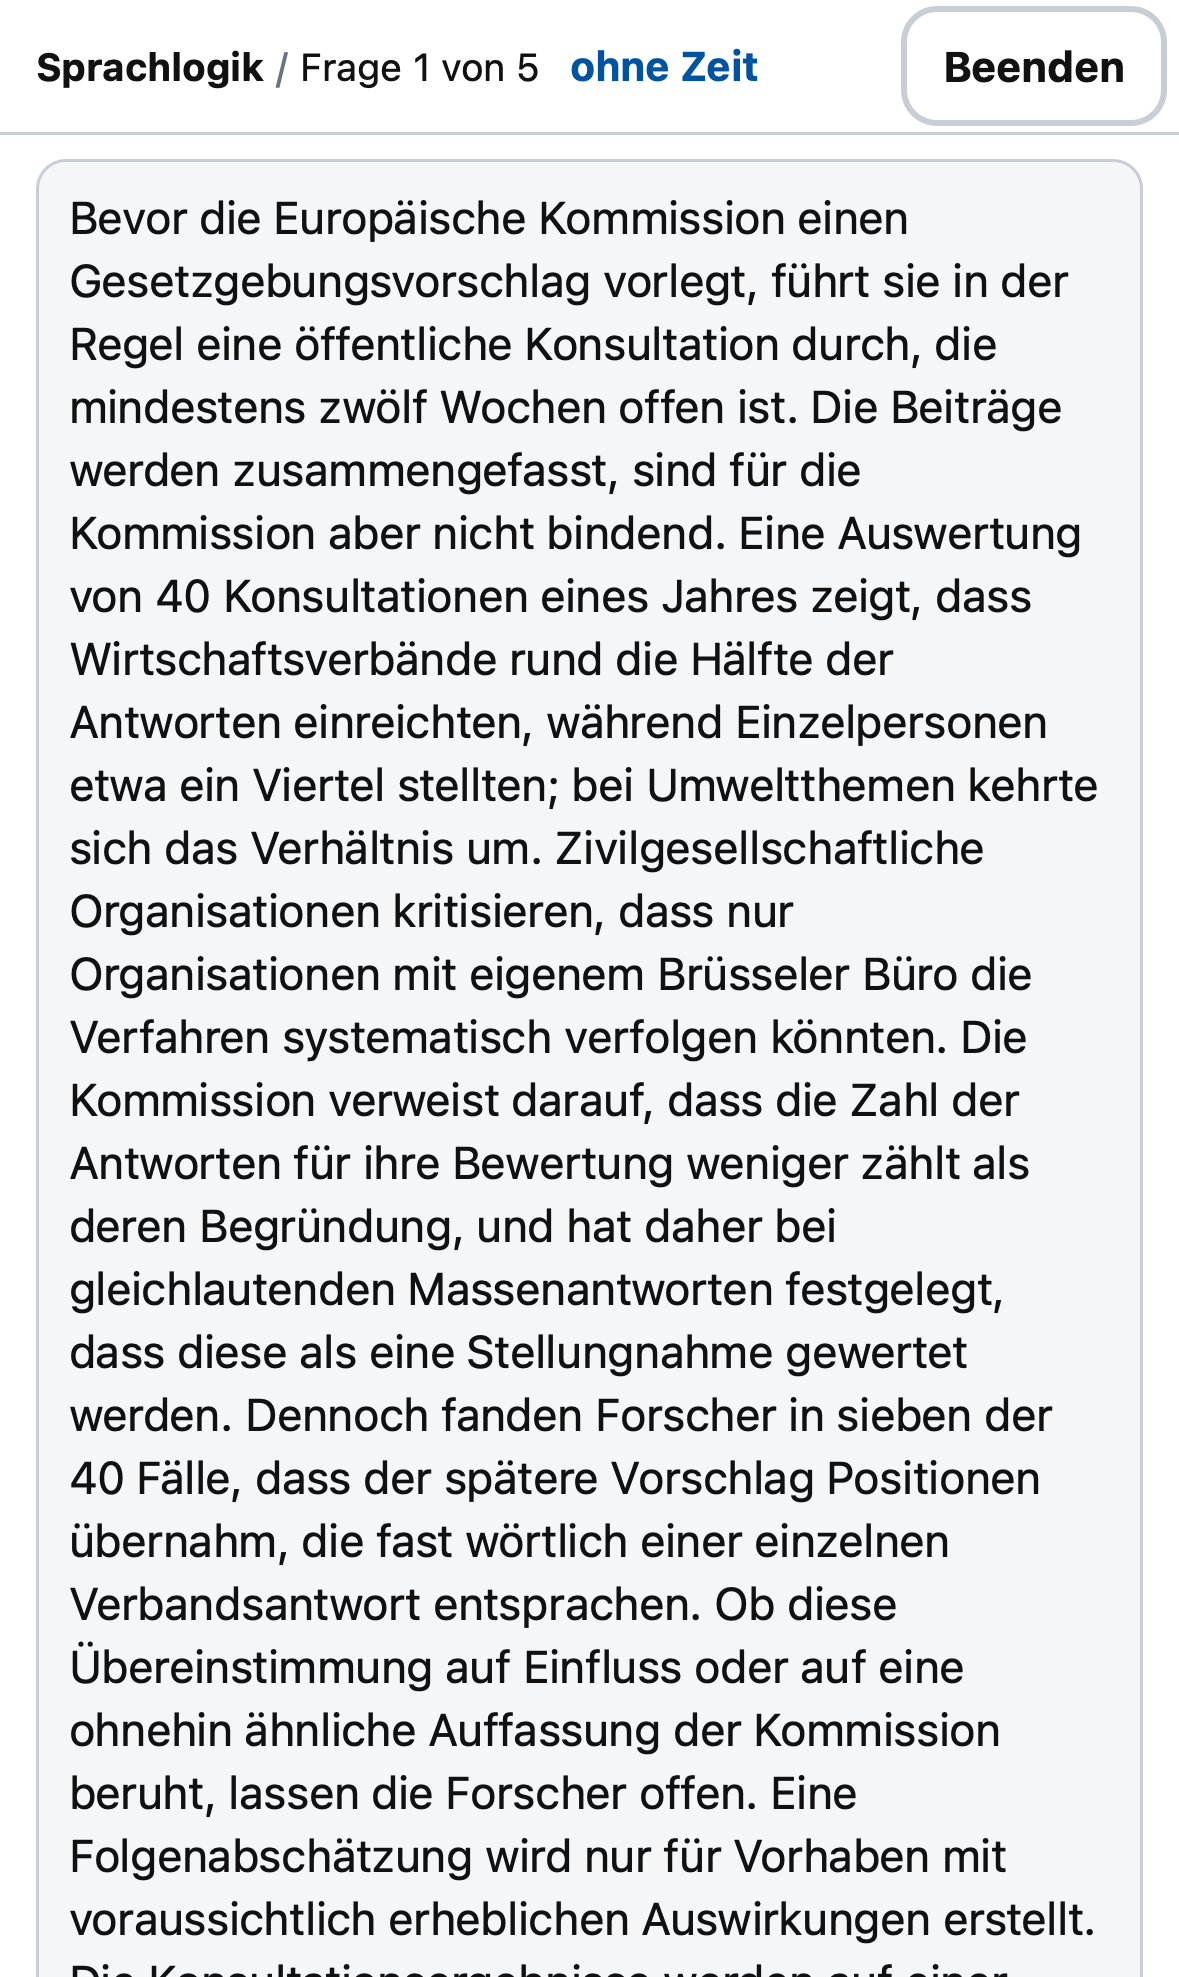
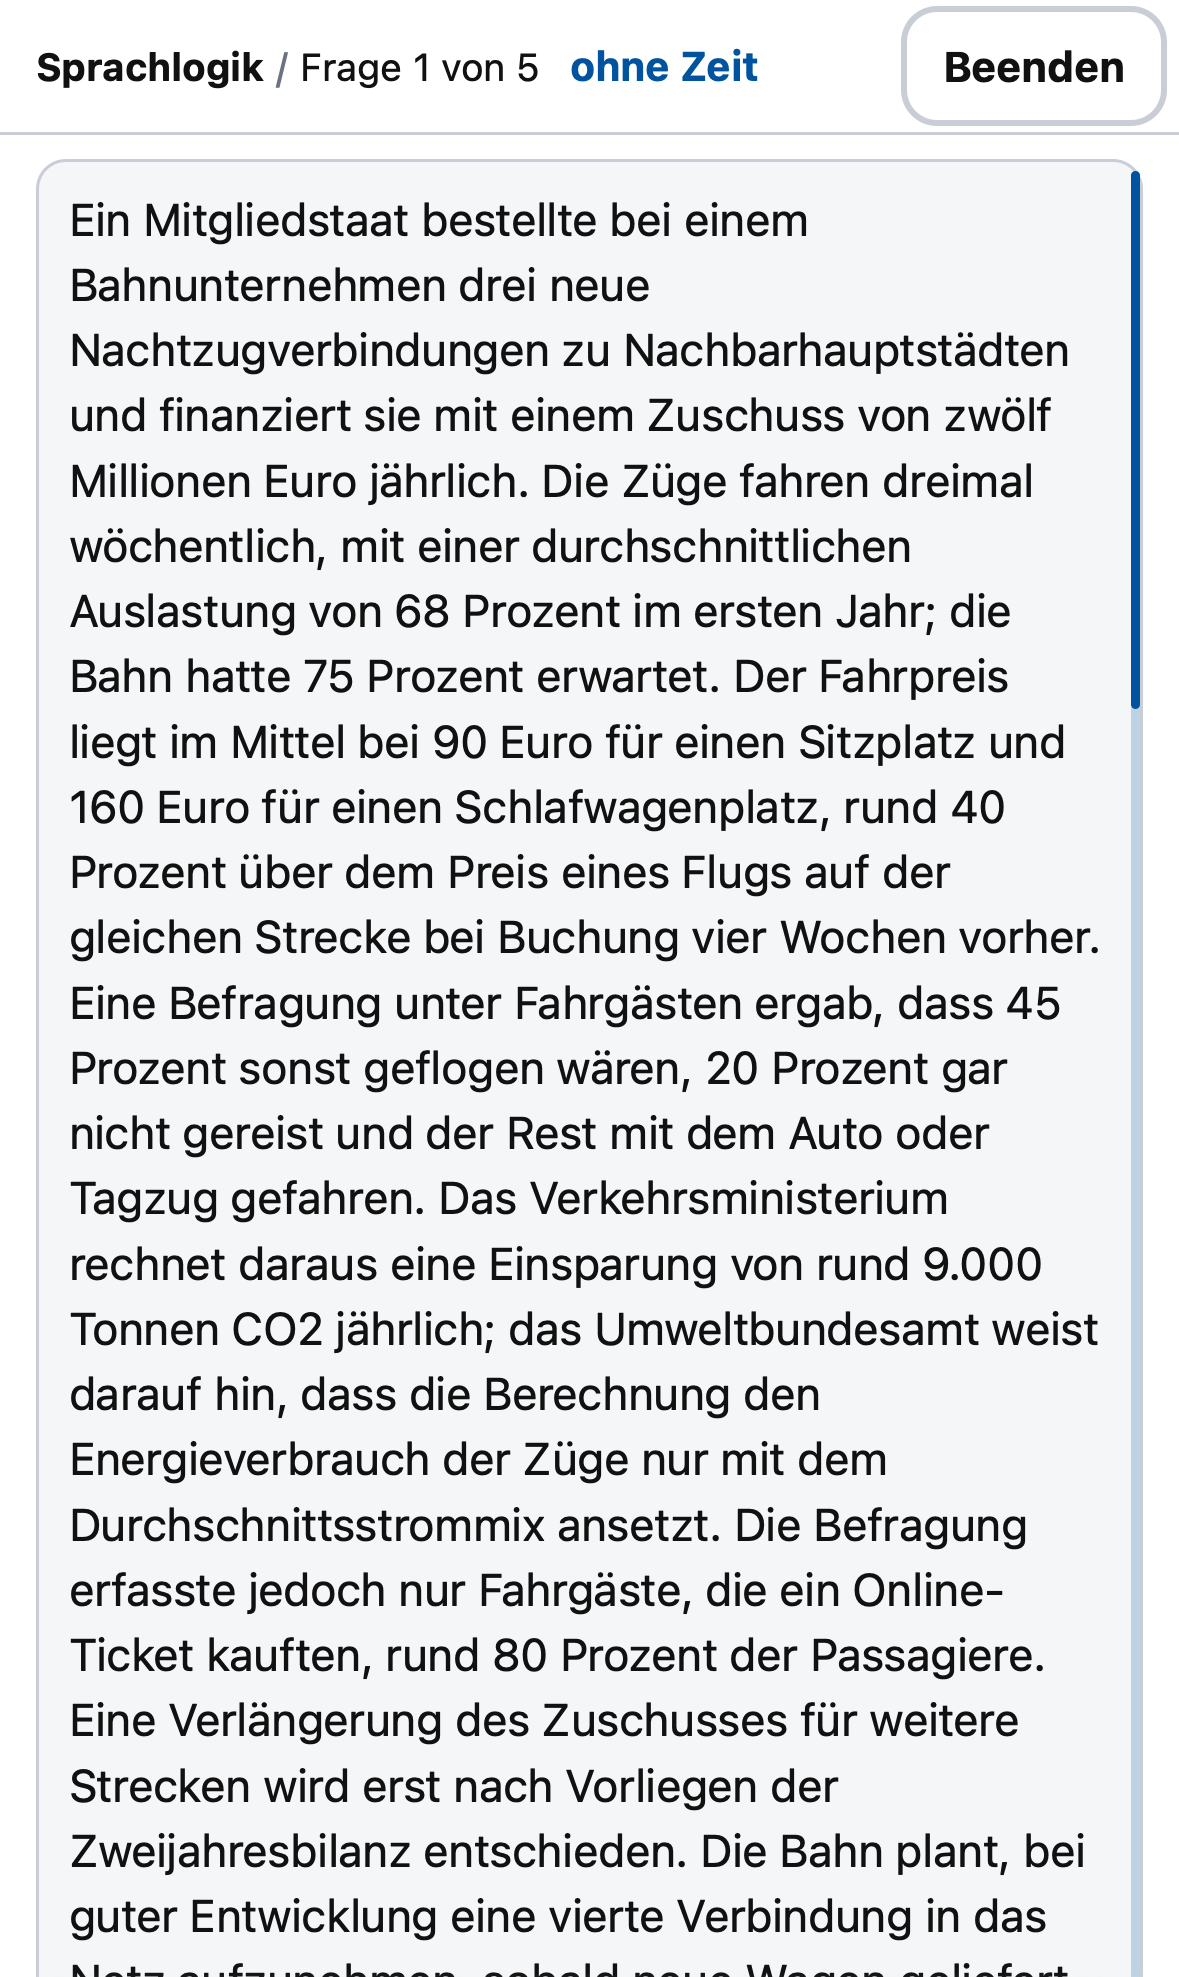
Frage-Layout kompakter, Umschalter Text/Antworten, Weiterlesen-Hinweis

Changed region(s): [[0.0611, 0.0926, 0.9771, 1.0]]

diff --git a/src/styles.css b/src/styles.css
@@ -85,26 +85,39 @@ select { display: block; width: 100%; min-height: 48px; font-size: 16px; margin-
 .rmain { flex: 1; min-height: 0; overflow: hidden; padding: 8px 12px 6px; }
 .rmain.scroll { overflow-y: auto; }
 .qlayout { max-width: 760px; margin: 0 auto; height: 100%; display: flex; flex-direction: column; gap: 6px; }
-.qleft { flex: 0 1 auto; min-height: 0; overflow-y: auto; }
-.qleft.fade { -webkit-mask-image: linear-gradient(to bottom, #000 calc(100% - 28px), transparent); mask-image: linear-gradient(to bottom, #000 calc(100% - 28px), transparent); }
+.qtext { position: relative; flex: 0 1 auto; min-height: 0; display: flex; flex-direction: column; }
+.qleft { flex: 1 1 auto; min-height: 0; overflow-y: auto; overscroll-behavior: contain; }
+.qtext .sprog { display: none; position: absolute; top: 4px; bottom: 4px; right: 1px; width: 3px; border-radius: 2px; background: color-mix(in srgb, var(--accent) 22%, transparent); pointer-events: none; }
+.qtext .sprog::after { content: ''; position: absolute; left: 0; right: 0; top: 0; height: 28%; border-radius: 2px; background: var(--accent); transform: translateY(calc(var(--sp, 0) * 257%)); }
+.qtext.scrolls .sprog { display: block; }
+.qtext .shint { display: none; position: absolute; left: 0; right: 0; bottom: 0; height: 44px; align-items: flex-end; justify-content: center; padding-bottom: 6px; pointer-events: none; border-radius: 0 0 10px 10px; background: linear-gradient(to bottom, transparent, var(--card) 70%); }
+.qtext .shint span { background: var(--bg); color: var(--accent); border: 1px solid var(--accent); border-radius: 12px; padding: 1px 10px; font-size: .75rem; font-weight: 700; }
+.qtext.fade .shint { display: flex; }
+.qtoggle { flex: none; min-height: 40px; display: flex; align-items: center; justify-content: center; gap: 8px; padding: 0 12px; border-radius: 10px; border: 1.5px solid var(--accent); background: var(--accent-soft); color: var(--accent); font-weight: 700; font-size: .8125rem; }
+.qtoggle small { font-weight: 600; color: var(--fg); font-size: .75rem; }
+.qtoggle b { font-size: .7rem; }
+.textfull .qtext { flex: 1 1 auto; }
 .qright { flex: none; margin-top: auto; }
+.qright[hidden] { display: none; }
 .qreveal { height: auto; display: block; }
 .qreveal .qleft { overflow: visible; }
-.passage { background: var(--card); border: 1px solid var(--border); border-radius: 10px; padding: 8px 10px; font-size: 15px; line-height: 1.4; white-space: pre-line; }
-.prompt { font-weight: 600; font-size: 15px; line-height: 1.3; margin: 0 0 6px; text-align: center; }
+.qreveal .qtext { display: block; }
+.passage { background: var(--card); border: 1px solid var(--border); border-radius: 10px; padding: 8px 12px 8px 10px; font-size: .9375rem; line-height: 1.45; white-space: pre-line; }
+.prompt { font-weight: 600; font-size: .8125rem; line-height: 1.25; margin: 0 0 4px; text-align: center; color: var(--muted); }
 .stim { max-width: 100%; overflow-x: auto; margin: 2px auto; text-align: center; color: var(--fg); }
 .stim svg { width: 100%; height: auto; max-height: 32vh; display: block; margin: 0 auto; }
 .t-abstract .stim svg { max-height: 17vh; }
 .stim table { margin: 0 auto; border-collapse: collapse; font-size: clamp(10px, 2.9vw, 14px); max-width: 100%; }
 .stim th, .stim td { border: 1px solid var(--border); padding: 1px 4px; }
-.opts { display: flex; flex-direction: column; gap: 8px; }
-.opt { display: flex; align-items: center; gap: 10px; width: 100%; min-height: 48px; padding: 8px 12px; text-align: left; font-size: 15px; line-height: 1.3; border: 2px solid var(--fg); border-radius: 10px; background: var(--bg); }
+.opts { display: flex; flex-direction: column; gap: 6px; }
+.opt { display: flex; align-items: center; gap: 8px; width: 100%; min-height: 40px; padding: 6px 10px; text-align: left; font-size: .9375rem; line-height: 1.35; border: 2px solid var(--fg); border-radius: 10px; background: var(--bg); }
+.opt b { flex: none; }
 .t-numerical .opts { gap: 6px; }
-.t-numerical .opt { min-height: 44px; padding: 4px 12px; }
-.opt .radio { flex: none; width: 18px; height: 18px; border-radius: 50%; border: 2px solid currentColor; }
+.t-numerical .opt { min-height: 40px; padding: 4px 10px; }
+.opt .radio { flex: none; width: 14px; height: 14px; border-radius: 50%; border: 2px solid currentColor; }
 .opt .otext { flex: 1; min-width: 0; overflow-wrap: anywhere; }
 .opt.sel { background: var(--accent); border-color: var(--accent); color: #fff; }
-.opt.sel .radio { background: #fff; box-shadow: inset 0 0 0 3px var(--accent); }
+.opt.sel .radio { background: #fff; box-shadow: inset 0 0 0 2px var(--accent); }
 .opt.right { border-color: var(--ok); background: color-mix(in srgb, var(--ok) 18%, var(--bg)); }
 .opt.wrong { border-color: var(--bad); background: color-mix(in srgb, var(--bad) 18%, var(--bg)); }
 .opt:disabled { color: var(--fg); opacity: 1; }
@@ -113,8 +126,12 @@ select { display: block; width: 100%; min-height: 48px; font-size: 16px; margin-
 @media (min-width: 700px) and (orientation: landscape) {
   .rmain { padding-bottom: 6px; }
   .qlayout, .qreveal { max-width: none; display: grid; grid-template-columns: 1fr 1fr; gap: 16px; height: 100%; }
-  .qleft, .qright { overflow-y: auto; min-height: 0; margin-top: 0; }
+  .qtext { min-height: 0; }
+  .qright { overflow-y: auto; min-height: 0; margin-top: 0; }
   .qreveal .qleft { overflow-y: auto; }
+  .qreveal .qtext { display: flex; }
+  .qtoggle { display: none; }
+  .qright[hidden] { display: block; }
   .stim svg { max-height: 60vh; } .t-abstract .stim svg { max-height: 30vh; }
 }
 /* Fußleiste */

diff --git a/e2e/qtoggle.spec.ts b/e2e/qtoggle.spec.ts
@@ -1,0 +1,78 @@
+import { expect, test, type Page } from '@playwright/test';
+import fs from 'node:fs';
+import path from 'node:path';
+
+const SHOTS = 'docs/screenshots/';
+const dir = 'data/verbal';
+const longest = fs.readdirSync(dir).filter((f) => f.endsWith('.json') && !f.startsWith('_'))
+  .flatMap((f) => JSON.parse(fs.readFileSync(path.join(dir, f), 'utf8')))
+  .sort((a: any, b: any) => b.text.length - a.text.length)[0];
+
+async function metrics(page: Page) {
+  return page.evaluate(() => {
+    const se = document.scrollingElement!;
+    const r = (s: string) => document.querySelector(s)?.getBoundingClientRect();
+    const opts = [...document.querySelectorAll('.opt')].map((e) => e.getBoundingClientRect());
+    const left = document.querySelector('.qleft') as HTMLElement;
+    const lh = parseFloat(getComputedStyle(document.querySelector('.passage')!).lineHeight);
+    return { sh: se.scrollHeight, ih: window.innerHeight, left: left.clientHeight, lines: left.clientHeight / lh,
+      maxBottom: opts.length ? Math.max(...opts.map((o) => o.bottom)) : 0, bar: r('.rbar')!.top,
+      toggleH: r('.qtoggle')?.height ?? 0, toggleBottom: r('.qtoggle')?.bottom ?? 0, tToggleTop: r('.qtoggle')?.top ?? 0,
+      visibleOpts: opts.filter((o) => o.width > 0).length };
+  });
+}
+
+const sizes = [
+  { n: '360x780', w: 360, h: 780, dpr: 3, dark: false },
+  { n: '412x915', w: 412, h: 915, dpr: 2.625, dark: true },
+  { n: '393x852', w: 393, h: 852, dpr: 3, dark: false },
+  { n: '915x412', w: 915, h: 412, dpr: 2.625, dark: true },
+];
+
+for (const s of sizes) {
+  test(`Sprachlogik kompakt + Umschalter ${s.n}`, async ({ browser }) => {
+    const ctx = await browser.newContext({ viewport: { width: s.w, height: s.h }, deviceScaleFactor: s.dpr, isMobile: true, hasTouch: true, colorScheme: s.dark ? 'dark' : 'light' });
+    const page = await ctx.newPage();
+    await page.goto(`./#/preview/${longest.id}`);
+    await page.locator('.opt').first().waitFor();
+    const landscape = s.w >= 700;
+    const a = await metrics(page);
+    expect(a.sh, 'Seite scrollt nicht').toBeLessThanOrEqual(a.ih + 1);
+    if (!landscape) {
+      expect(a.maxBottom, 'Antworten über der Leiste').toBeLessThanOrEqual(a.bar + 1);
+      expect(a.toggleH).toBeGreaterThanOrEqual(40);
+      if (s.w === 412) expect(a.lines, 'mind. 10 Textzeilen sichtbar').toBeGreaterThanOrEqual(10);
+    }
+    await page.screenshot({ path: `${SHOTS}40-${s.n}-antworten.png` });
+    if (!landscape) {
+      await page.getByTestId('opt-B').click();
+      await page.getByTestId('qtoggle').click();
+      await expect(page.getByTestId('opt-B')).toBeHidden();
+      const b = await metrics(page);
+      expect(b.left).toBeGreaterThan(a.left);
+      expect(b.sh).toBeLessThanOrEqual(b.ih + 1);
+      await expect(page.getByTestId('qtoggle')).toContainText('Gewählt: B');
+      await page.screenshot({ path: `${SHOTS}40-${s.n}-text.png` });
+      await page.getByTestId('qtoggle').click();
+      await expect(page.getByTestId('opt-D')).toBeVisible();
+    } else {
+      await page.screenshot({ path: `${SHOTS}40-${s.n}-text.png` });
+    }
+    await ctx.close();
+  });
+}
+
+test('Umschalter gilt nur für die aktuelle Frage', async ({ page }) => {
+  await page.goto('./');
+  await page.getByTestId('tile-practice').click();
+  await page.getByTestId('type-verbal').click();
+  await page.getByTestId('count-5').click();
+  await page.getByTestId('start-practice').click();
+  await page.getByTestId('qtoggle').click();
+  await expect(page.getByTestId('opt-A')).toBeHidden();
+  await page.getByTestId('qtoggle').click();
+  await page.getByTestId('opt-A').click();
+  await expect(page.getByTestId('feedback')).toBeVisible();
+  await page.getByTestId('weiter').click();
+  await expect(page.getByTestId('opt-A')).toBeVisible();
+});

diff --git a/src/app/components/QuestionView.tsx b/src/app/components/QuestionView.tsx
@@ -1,5 +1,5 @@
 import type { ComponentChildren } from 'preact';
-import { useEffect, useRef } from 'preact/hooks';
+import { useEffect, useRef, useState } from 'preact/hooks';
 import type { Q } from '../types';
 
 const L = ['A', 'B', 'C', 'D', 'E'];
@@ -13,14 +13,20 @@ export interface Props {
   children?: ComponentChildren;
 }
 
-/** Linke Spalte (Text/Reiz) scrollt bei Bedarf intern; Fade-Hinweis am unteren Rand. */
+/** Text/Reiz scrollt bei Bedarf intern; Hinweis „weiterlesen“ + Fortschrittsleiste am Wrapper. */
 function useFade(deps: unknown[]) {
   const ref = useRef<HTMLDivElement>(null);
   useEffect(() => {
     const el = ref.current;
-    if (!el) return;
+    const wrap = el?.parentElement;
+    if (!el || !wrap) return;
     const upd = () => {
-      el.classList.toggle('fade', el.scrollHeight > el.clientHeight + 2 && el.scrollTop + el.clientHeight < el.scrollHeight - 4);
+      const over = el.scrollHeight > el.clientHeight + 2;
+      const more = over && el.scrollTop + el.clientHeight < el.scrollHeight - 4;
+      wrap.classList.toggle('fade', more);
+      wrap.classList.toggle('scrolls', over);
+      const range = el.scrollHeight - el.clientHeight;
+      wrap.style.setProperty('--sp', over && range > 0 ? String(Math.min(1, el.scrollTop / range)) : '1');
     };
     upd();
     el.addEventListener('scroll', upd);
@@ -34,14 +40,29 @@ function useFade(deps: unknown[]) {
 export function QuestionView({ q, selected, onSelect, reveal, children }: Props) {
   const leftRef = useFade([q.id, reveal]);
   const keypad = q.type === 'abstract';
+  // Umschalter „Text ganz zeigen“: nur bei Textaufgaben, nur für die aktuelle Frage (QuestionView hat key=q.id)
+  const [full, setFull] = useState(false);
+  const canToggle = !!q.text && !reveal;
+  const textFull = canToggle && full;
   return (
-    <div class={`qlayout t-${q.type}${reveal ? ' qreveal' : ''}`}>
-      <div class="qleft" ref={leftRef}>
-        {q.text ? <div class="passage" lang="de">{q.text}</div> : null}
-        {q.stimulusHtml ? <div class="stim" dangerouslySetInnerHTML={{ __html: q.stimulusHtml }} /> : null}
-        {q.optionsHtml ? <div class="stim optfig" dangerouslySetInnerHTML={{ __html: q.optionsHtml }} /> : null}
+    <div class={`qlayout t-${q.type}${reveal ? ' qreveal' : ''}${textFull ? ' textfull' : ''}`}>
+      <div class="qtext">
+        <div class="qleft" ref={leftRef}>
+          {q.text ? <div class="passage" lang="de">{q.text}</div> : null}
+          {q.stimulusHtml ? <div class="stim" dangerouslySetInnerHTML={{ __html: q.stimulusHtml }} /> : null}
+          {q.optionsHtml ? <div class="stim optfig" dangerouslySetInnerHTML={{ __html: q.optionsHtml }} /> : null}
+        </div>
+        <i class="sprog" aria-hidden="true" />
+        <span class="shint" aria-hidden="true"><span>▼ weiterlesen</span></span>
       </div>
-      <div class="qright">
+      {canToggle ? (
+        <button type="button" class="qtoggle" data-testid="qtoggle" aria-expanded={!textFull} onClick={() => setFull(!full)}>
+          <span>{textFull ? 'Antworten zeigen' : 'Text ganz zeigen'}</span>
+          {textFull && selected != null ? <small>Gewählt: {L[selected]}</small> : null}
+          <b aria-hidden="true">{textFull ? '▲' : '▼'}</b>
+        </button>
+      ) : null}
+      <div class="qright" hidden={textFull}>
         <p class="prompt" lang={q.type === 'frmcq' ? 'en' : 'de'}>{q.prompt}</p>
         <div class={`opts${keypad ? ' keypad' : ''}`} role="radiogroup">
           {q.options.map((o, i) => {
